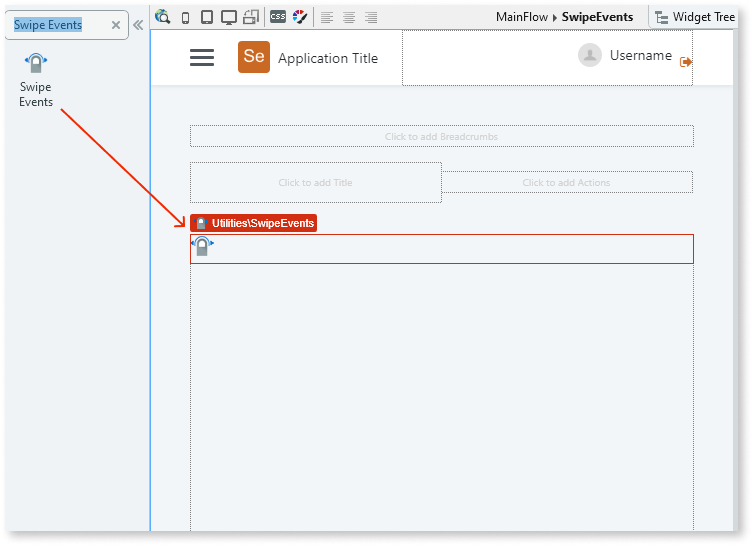
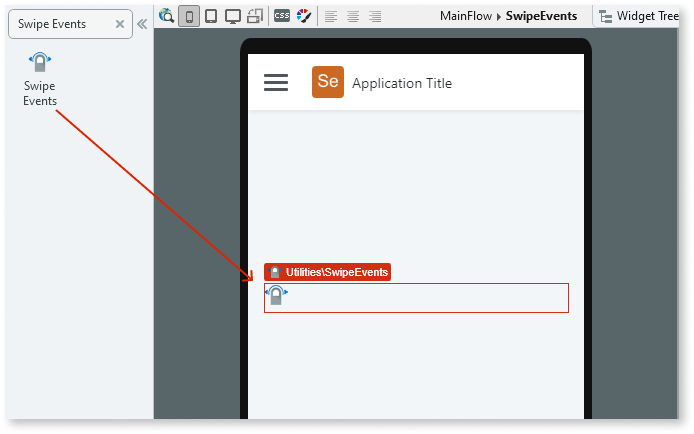
Updates to Swipe Events UI pattern and Columns pattern

diff --git a/src/develop/ui/patterns/mobile/swipeevents.md b/src/develop/ui/patterns/mobile/swipeevents.md
@@ -9,7 +9,7 @@ You can use the Swipe Events UI Pattern to enable swiping on a specific widget.
 
 ## How to use the Swipe Events UI Pattern
 
-The following example shows how you can use the Swipe Events UI pattern to open a sidebar.
+The following example shows how you can use the Swipe Events UI pattern to increase (swipe right) and decrease (swipe left) a number.
 
 1. In Service Studio, in the Toolbox, search for  `Swipe Events`. 
 
@@ -17,39 +17,46 @@ The following example shows how you can use the Swipe Events UI pattern to open 
 
     ![](images/swipeevents-1-ss.png)
 
-1. From the Toolbox, drag the Swipe Events widget onto your application's screen.
+1. From the Toolbox, drag the Swipe Events widget into the Main Content area of your application's screen.
 
      ![](images/swipeevents-2-ss.png)
 
-1. On the **Properties** tab, create a local variable called **isOpen**. This is used in the sidebar.
+1. Add a local variable by right-clicking on your screen name and selecting **Add Local Variable**.
 
-    ![](images/swipeevents-3-ss.png)
+     ![](images/swipeevents-3-ss.png)
 
-After following these steps and publishing the module, you can test the pattern in your app. The result should look something like the following:
+1. Enter a name, a data type, and a default value for the new variable. In this example, we enter ``Number``, ``Integer``, and ``0`` repsectively. 
 
-![](images/swipeevents-4.gif)
+   ![](images/swipeevents-4-ss.png)
+
+1. Drag the new variable into the Main Content area of your application's screen. 
+
+   ![](images/swipeevents-5-ss.png)
+
+1. From the Toolbox, drag the Container widget into the Main Content area of your application's screen and on the **Properties** tab, enter a name. In this example we enter ``SwipeContainer``. We also add the text ``Swipe left or right`` inside the Container widget.
+
+   ![](images/swipeevents-6-ss.png)
+
+1. From the **Widget Tree**, select the Swipe Events widget, and on the **Properties** tab, from the **WidgetId** drop-down, select the Id of the container you just created. In this example, we select **SwipeContainer.Id**.
+
+    ![](images/swipeevents-7-ss.png)
+
+1. To set the action for when the user swipes left, remaining on the **Properties** tab, from the **SwipeLeft Handler** drop-down, select **New Client Action**. 
+
+    ![](images/swipeevents-8-ss.png)
+
+1. Drag an Assign onto the client action, and enter the relevant assignments. In this example, so that the number decreases by 1, we set the Variable to **Number**, and enter ``Number - 1`` for the **Value**.
+
+    ![](images/swipeevents-9-ss.png)
+
+1. Repeat steps 8 and 9 for the **SwipeRightHandler** and so that the number increases when the user swipes right, enter ``Number + 1``.
+
+After following these steps and publishing the module, you can test the pattern in your app.
+
+
 
 ## Properties
 
 **Property** |  **Description** | 
 |---|---| 
-| WidgetId (Text): Mandatory |  Element that is swipeable.  |
-  
-  
-## Compatibility with other patterns
-
-There might be conflicts with any pattern with touch events (unless the code is altered to support the behavior). For example, using the sidebar ID instead of a container in the previous example.
-
-  * Horizontal Scroll 
-  * [Carousel](<carousel.md>)
-  * [Touch Events](<touchevents.md>)
-  * [Stacked Cards](<stackedcards.md>)
-  * Notification 
-  * Sidebar 
-
-## Samples
-
-The following sample uses the Swipe Events UI Pattern:
-
-![](images/SwipeEvents-Sample-1.PNG)
-
+| WidgetId (Text): Mandatory |  Element that's swipeable.  |

diff --git a/src/develop/ui/patterns/mobile/columns.md b/src/develop/ui/patterns/mobile/columns.md
@@ -40,7 +40,7 @@ You can use the Columns UI Pattern to split content into separate columns, impro
 GutterSize (GutterSizeIdentifier): Optional | Defines the space between columns.<br/><br/>Examples<br/><br/><ul><li>_Empty_ - Leaves a space of 16px between columns. This is the default (Entities.GutterSize.Base).</li><li>_Entities.GutterSize.None_ - No space between columns.</li></ul> |
 TabletBehavior (BreakColumns Identifier): Optional | Defines how the columns are displayed on tablets. The predefined options for the tablet behavior are:<br/><br/><ul><li>All</li><li>First</li><li>Last</li><li>Middle</li><li>None</li></ul>See below for an example of how each of the options look. |
 PhoneBehavior (BreakColumns Identifier): Optional | Defines how the columns are displayed on phones. The predefined options for the phone behavior are:<br/><br/><ul><li>All</li><li>First</li><li>Last</li><li>Middle</li><li>None</li></ul>See below for an example of how each of the options look. |
-ExtendedClass (Text): Optional | Add custom style classes to the Columns UI Pattern. You define your [custom style classes](../../../../develop/ui/look-feel/css.md) in your application using CSS.<br/><br/>Examples<br/><br/><ul><li>_Blank_ - No custom styles are added (default value).</li><li>_"myclass"_ - Adds the _myclass_ style to the Columns UI styles being applied.</li><li>_"myclass1" "myclass2"_ - Adds the _myclass1_ and _myclass2_ styles to the Columns UI styles being applied.</li></ul> |
+ExtendedClass (Text): Optional | Add custom style classes to the Columns UI Pattern. You define your [custom style classes](../../../../develop/ui/look-feel/css.md) in your application using CSS.<br/><br/>Examples<br/><br/><ul><li>_Blank_ - No custom styles are added (default value).</li><li>_"myclass"_ - Adds the _myclass_ style to the Columns UI styles being applied.</li><li>_"myclass1" "myclass2"_ - Adds the _myclass1_ _myclass2_ styles to the Columns UI styles being applied.</li></ul> |
 
 **Entities.ColumnBreak.BreakNone (default)**
 
